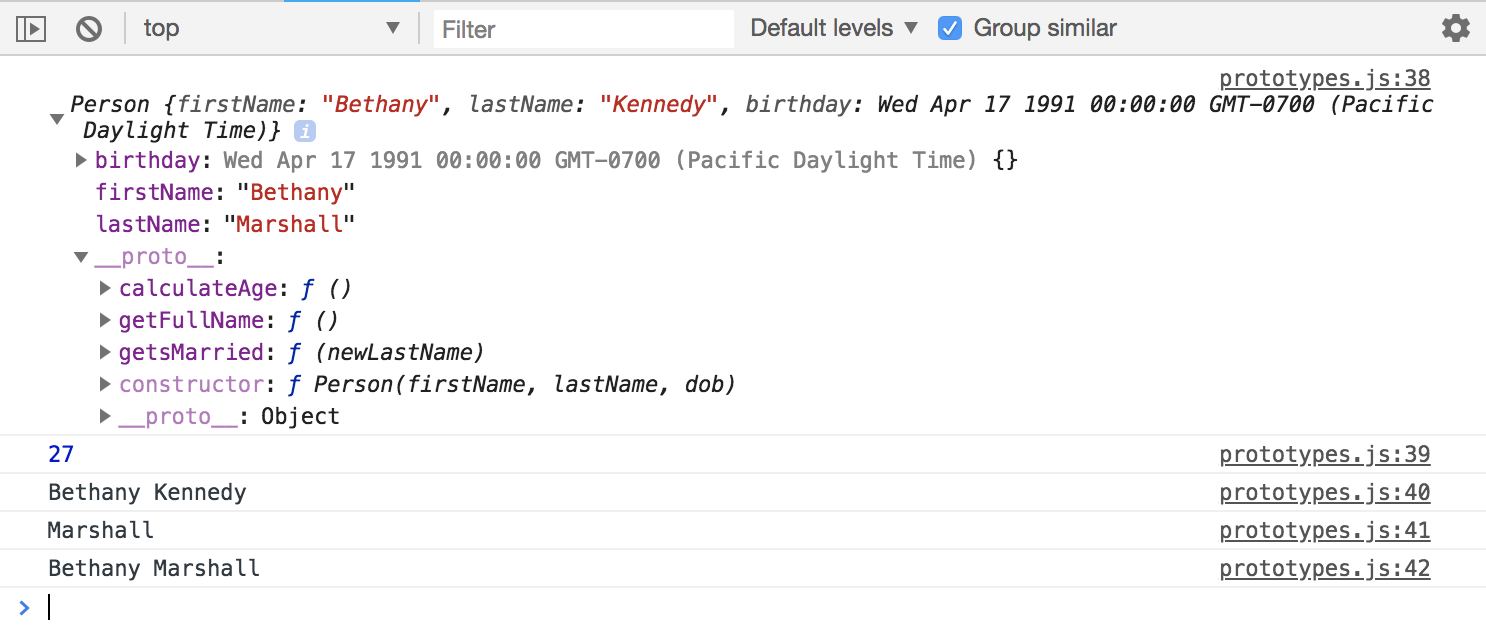
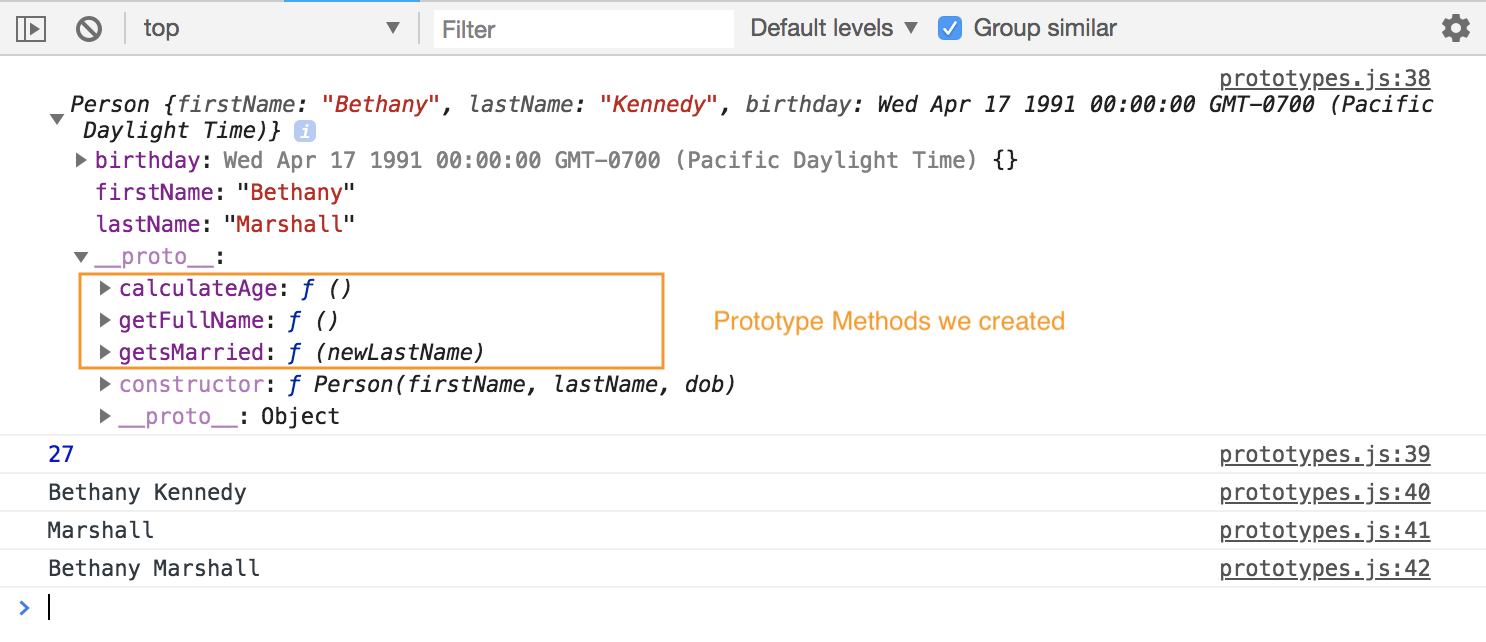
Object has own property vs prototype method

Changed region(s): [[0.4643, 0.4673, 0.712, 0.5296], [0.0619, 0.5607, 0.4643, 0.5919], [0.0619, 0.405, 0.4643, 0.4361]]

diff --git a/03_oop/02_prototypes/prototypes.js b/03_oop/02_prototypes/prototypes.js
@@ -35,8 +35,10 @@ Person.prototype.getsMarried = function(newLastName) {
   return this.lastName = newLastName;
 }
 
-console.log(bethany);
-console.log(bethany.calculateAge());
-console.log(bethany.getFullName());
-console.log(bethany.getsMarried('Marshall'));
-console.log(bethany.getFullName());
+// console.log(bethany);
+// console.log(bethany.calculateAge());
+// console.log(bethany.getFullName());
+// console.log(bethany.getsMarried('Marshall'));
+// console.log(bethany.getFullName());
+
+// console.log(bethany.hasOwnProperty('firstName'));

diff --git a/03_oop/02_prototypes/README.md b/03_oop/02_prototypes/README.md
@@ -139,3 +139,25 @@ console.log(bethany.getFullName());
 If you look in the Prototype, you'll see all three Prototype Methods there.
 
 <kbd>![alt text](img/allproto.png "screenshot")</kbd>
+
+We also have access to Object.prototype.
+
+<kbd>![alt text](img/persobjtype.png "screenshot")</kbd>
+
+Let's look at ```hasOwnProperty``` what that will do is look at your contructor object and check for the property that it has, like:
+
+```
+this.firstName = firstName;
+this.lastName = lastName;
+this.birthday = new Date(dob);
+```
+
+There's no special syntax we need to use to access these methods, simply say:
+
+<kbd>![alt text](img/hasOwnProperty.png "screenshot")</kbd>
+
+if you put in a property that's not there, like ```getFullName()``` it's not part of the actual constructor object of Person:
+
+<kbd>![alt text](img/objprop.png "screenshot")</kbd>
+
+it'll log out as ```false``` bc ```getFullName``` is in a prototype, it's part of its own property.
